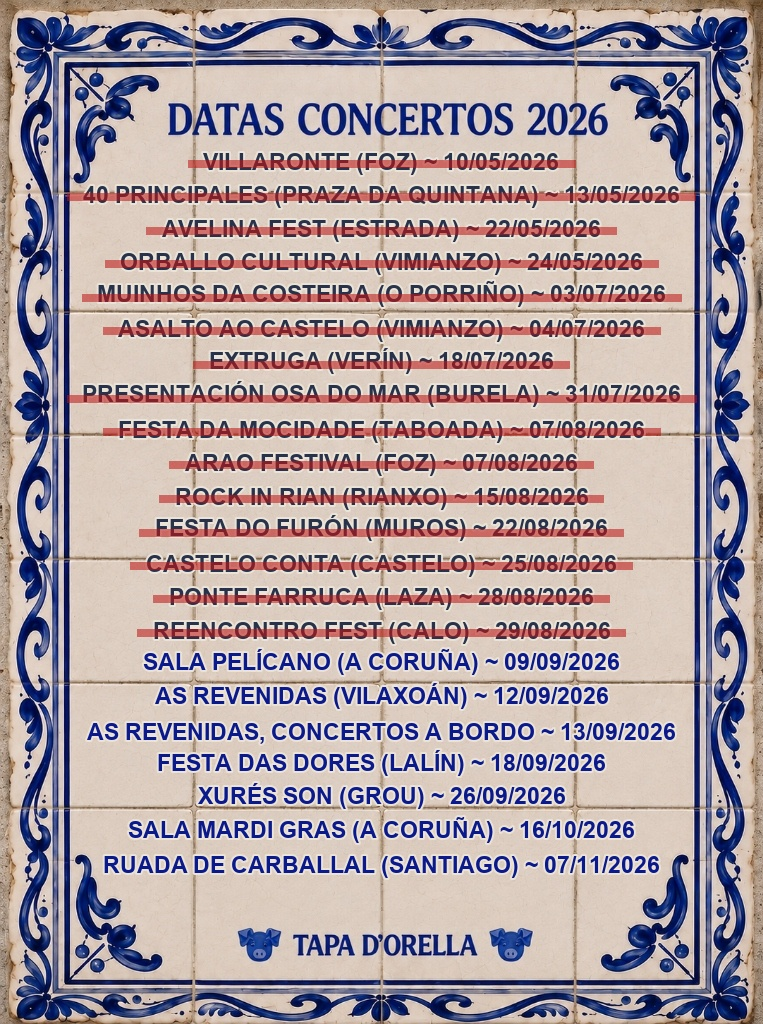
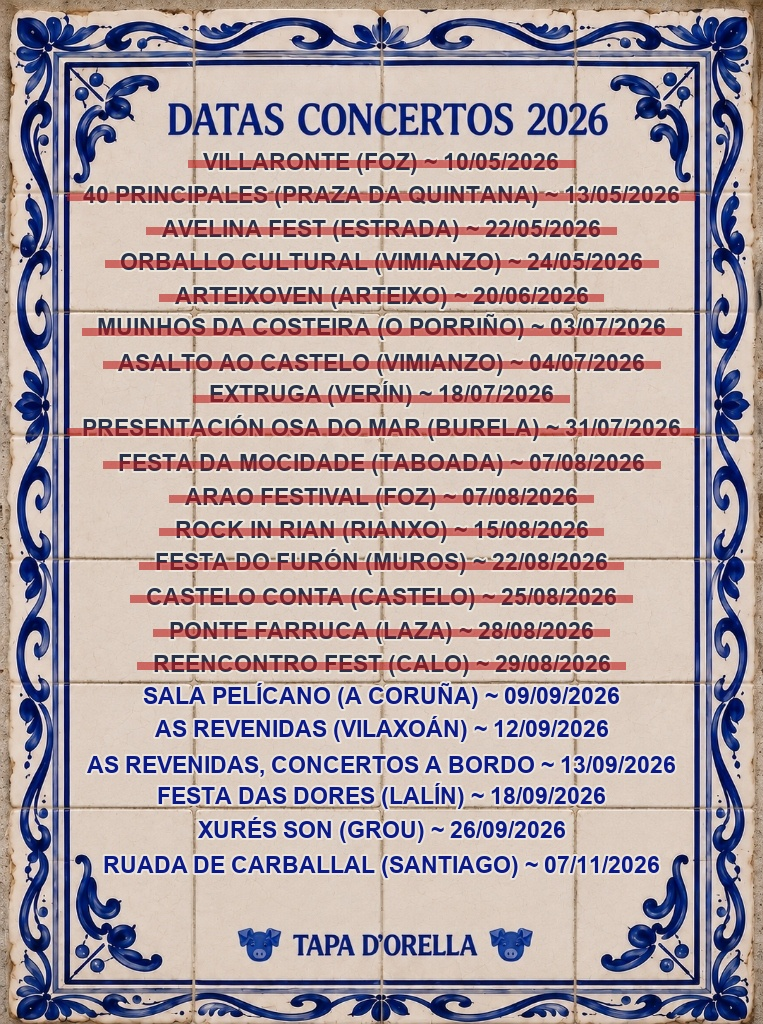
feat: actualizar cartel gira añadiendo ArteiXoven y quitando Mardi Gras

Changed region(s): [[0.0904, 0.25, 0.9043, 0.8438]]

diff --git a/scripts/generador_cartel.py b/scripts/generador_cartel.py
@@ -5,7 +5,7 @@ from PIL import Image, ImageDraw, ImageFont
 # Se asume que este script se ejecuta desde la carpeta "scripts" o la raíz del proyecto.
 script_dir = os.path.dirname(os.path.abspath(__file__))
 bg_path = os.path.join(script_dir, "fondo-vertical.jpg")
-out_path = os.path.join(script_dir, "..", "web", "public", "xira.jpg")
+out_path = os.path.join(script_dir, "..", "public", "xira.jpg")
 
 # --- LISTA DE FECHAS ---
 # Formato OBLIGATORIO: EVENTO (UBICACIÓN) ~ DD/MM/AAAA
@@ -15,6 +15,7 @@ fechas = [
     ("40 PRINCIPALES (PRAZA DA QUINTANA) ~ 13/05/2026", True),
     ("AVELINA FEST (ESTRADA) ~ 22/05/2026", True),
     ("ORBALLO CULTURAL (VIMIANZO) ~ 24/05/2026", True),
+    ("ARTEIXOVEN (ARTEIXO) ~ 20/06/2026", True),
     ("MUINHOS DA COSTEIRA (O PORRIÑO) ~ 03/07/2026", True),
     ("ASALTO AO CASTELO (VIMIANZO) ~ 04/07/2026", True),
     ("EXTRUGA (VERÍN) ~ 18/07/2026", True),
@@ -31,7 +32,6 @@ fechas = [
     ("AS REVENIDAS, CONCERTOS A BORDO ~ 13/09/2026", False),
     ("FESTA DAS DORES (LALÍN) ~ 18/09/2026", False),
     ("XURÉS SON (GROU) ~ 26/09/2026", False),
-    ("SALA MARDI GRAS (A CORUÑA) ~ 16/10/2026", False),
     ("RUADA DE CARBALLAL (SANTIAGO) ~ 07/11/2026", False)
 ]
 
